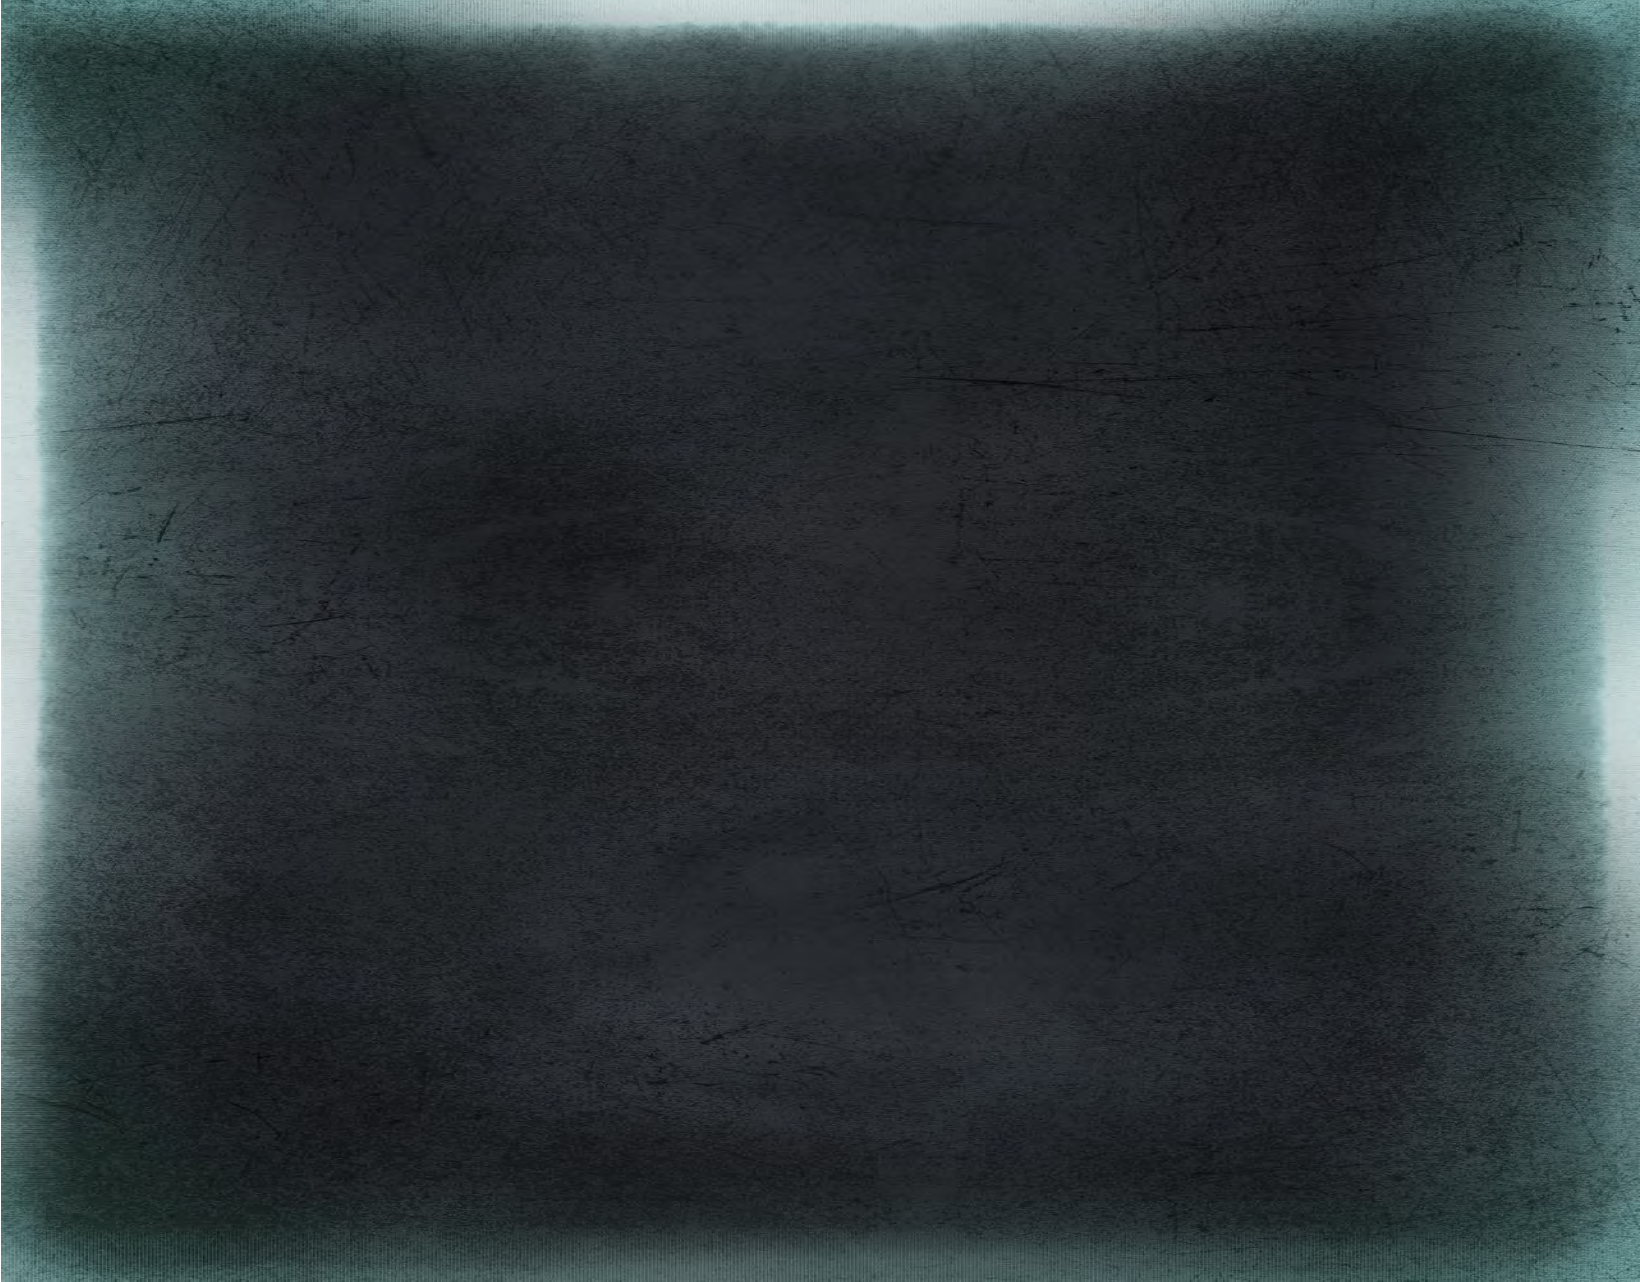
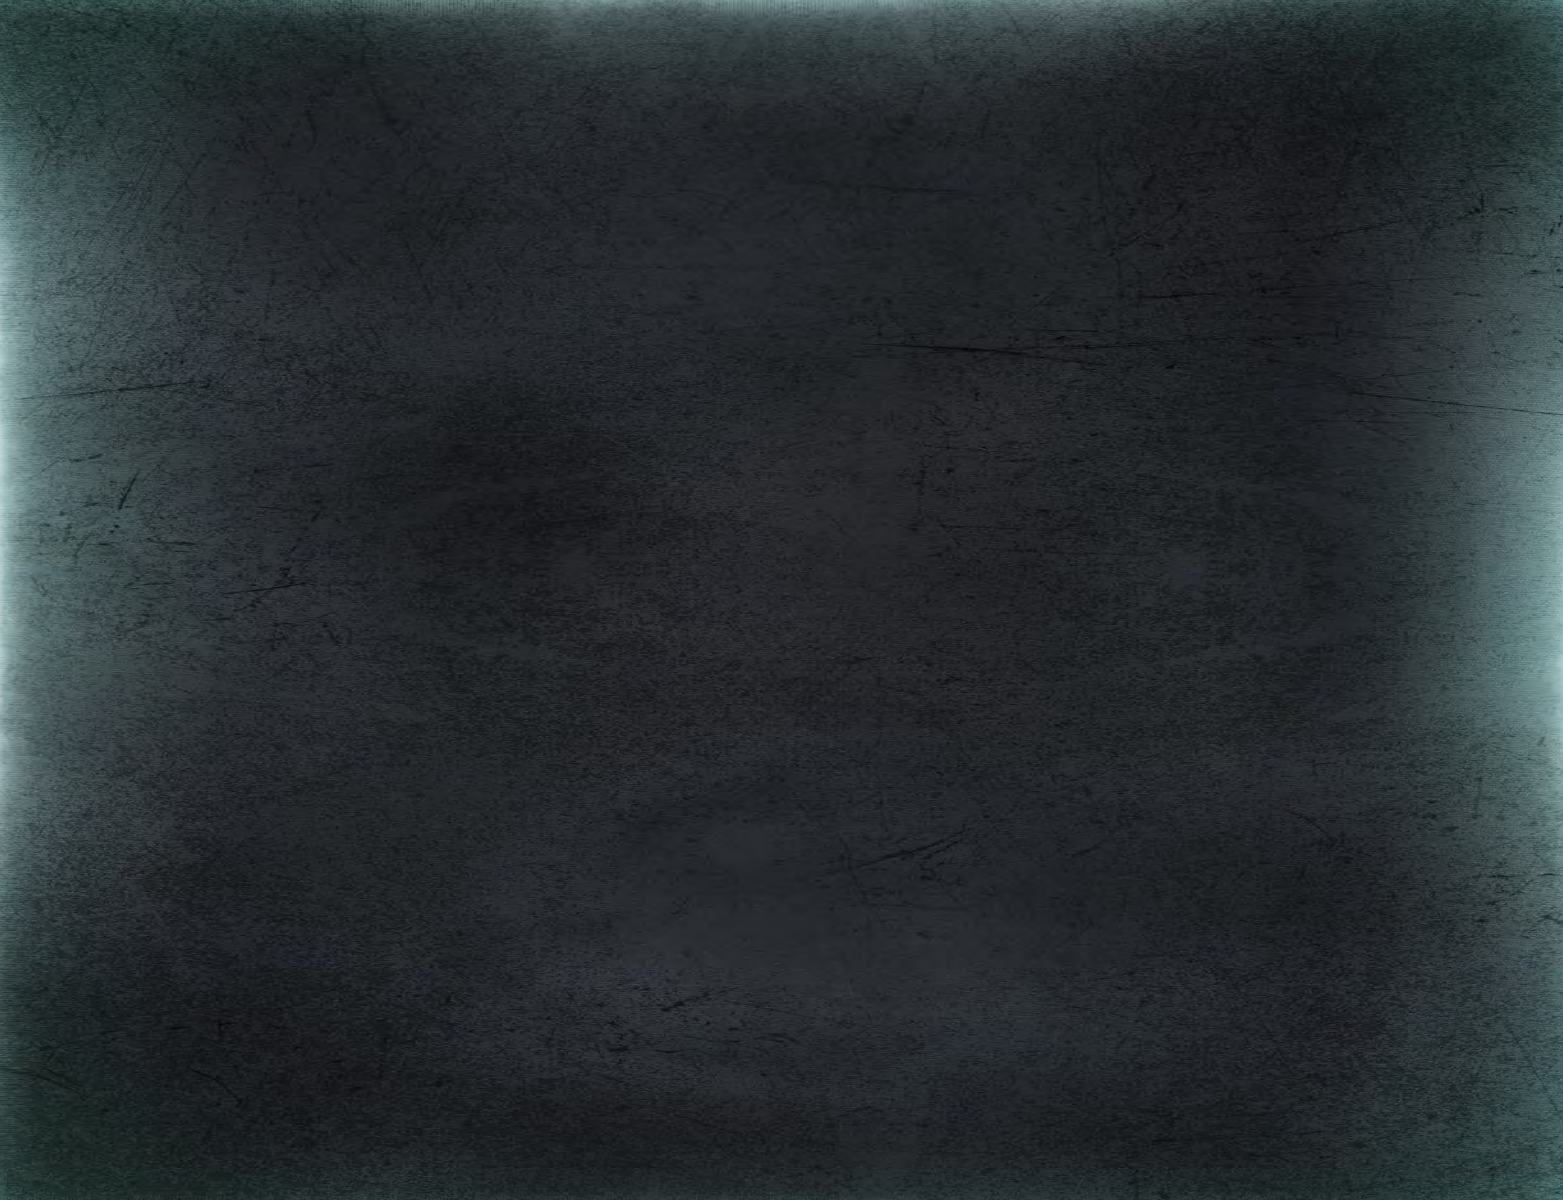
Updated image

Changed region(s): [[0.0, 0.0, 1.0, 1.0]]

diff --git a/bladerunner.html b/bladerunner.html
@@ -1,21 +1,21 @@
 
 <div class="border-1234 main-box background">
-    <div class="border-23 w100pc header light-box">
+    <div class="border-23 w100pc header light-box header">
         <span class="float-left w70pc light-box">Character sheet</span>
         <span class="float-right w30pc light-box">BLADE RUNNER</span>
     </div>
     
-    <div class="border-23 w40pc logo light-box">&nbsp;</div>
+    <div class="border-23 w40pc logo light-box character-info">&nbsp;</div>
     <div class="border-23 w40pc charinfo light-box">Charinfo</div>
     <div class="border-3 w20pc chartype light-box">Chartype</div>
 
     <div class="border-23 w20px">&nbsp;</div>
-    <div class="border-23 w100pc-40px dark-box">
-        <div class="border-2 w50pc">
+    <div class="border-23 w100pc-40px dark-box key-info">
+        <div class="border-2 w50pc key-memory">
             <span class="w100pc">Key Memory</span>
             <textarea class=""></textarea>
         </div>
-        <div class="w50pc">
+        <div class="w50pc key-relationship">
             <span class="w100pc">Key Relationship</span>
             <textarea class=""></textarea>            
         </div>
@@ -23,13 +23,13 @@
     <div class="border-3 w20px">&nbsp;</div>
 
     <div class="border-23 w20px">&nbsp;</div>
-    <div class="border-23 w100pc-40px dark-box">
-        <div class="border-2 w50pc">
+    <div class="border-23 w100pc-40px dark-box home-info">
+        <div class="border-2 w50pc home">
             <span class="w100pc">Home</span>            
             <textarea class=""></textarea>
-            <div class="border-1 w100pc dark-box">Years on the force</div>
+            <!-- <div class="border-1 w100pc dark-box force-years">Years on the force</div> -->
         </div>
-        <div class="w50pc">
+        <div class="w50pc appearance">
             <span class="w100pc">Appearance</span>            
             <textarea class=""></textarea>
         </div>
@@ -37,95 +37,95 @@
     <div class="border-3 w20px">&nbsp;</div>
     
     <div class="border-23 w20px">&nbsp;</div>
-    <div class="w100pc-40px dark-box">
-        <div class="border-23 w25pc dark-box">Years on the force</div>
-        <div class="border-23 w25pc">PROMOTION POINTS</div>
-        <div class="border-23 w25pc">HUMANITY POINTS</div>
-        <div class="border-23 w25pc">CHINYEN POINTS</div>
+    <div class="w100pc-40px dark-box points">
+        <div class="border-23 w25pc dark-box force-years">Years on the force</div>
+        <div class="border-23 w25pc promotion-points">PROMOTION POINTS</div>
+        <div class="border-23 w25pc humanity-points">HUMANITY POINTS</div>
+        <div class="border-23 w25pc chinyen-points">CHINYEN POINTS</div>
     </div>
     <div class="border-3 w20px">&nbsp;</div>
 
     <div class="border-23 w20px">&nbsp;</div>
-    <div class="border-2 w100pc-40px dark-box">
+    <div class="border-2 w100pc-40px dark-box attributes-skills-header">
         Attributes and skills
     </div>
     <div class="border-3 w20px">&nbsp;</div>
 
     <div class="border-23 w20px">&nbsp;</div>
-    <div class="w100pc-40px">
+    <div class="w100pc-40px attributes-skills">
         <div class="w25pc">
-            <div class="border-23 w70pc dark-box"></div>
-            <div class="border-23 w15pc dark-box">Rat.</div>
-            <div class="border-23 w15pc dark-box">Die</div>
-            <div class="border-23 w70pc dark-box yellow">STRENGTH</div>
-            <div class="border-23 w15pc lighter-box"></div>
-            <div class="border-23 w15pc lighter-box"></div>
-            <div class="border-23 w70pc dark-box yellow">Close Cmb</div>
-            <div class="border-23 w15pc lighter-box"></div>
-            <div class="border-23 w15pc lighter-box"></div>
-            <div class="border-23 w70pc dark-box yellow">Force</div>
-            <div class="border-23 w15pc lighter-box"></div>
-            <div class="border-23 w15pc lighter-box"></div>
-            <div class="border-23 w70pc dark-box yellow">Stamina</div>
-            <div class="border-23 w15pc lighter-box"></div>
-            <div class="border-23 w15pc lighter-box"></div>
+            <div class="border-23 w70pc dark-box table-header"></div>
+            <div class="border-23 w15pc dark-box table-header rating">Rat.</div>
+            <div class="border-23 w15pc dark-box table-header die">Die</div>
+            <div class="border-23 w70pc dark-box yellow attribute">STRENGTH</div>
+            <div class="border-23 w15pc lighter-box attribute-rank"></div>
+            <div class="border-23 w15pc lighter-box attribute-die"></div>
+            <div class="border-23 w70pc dark-box yellow skill">Close Cmb</div>
+            <div class="border-23 w15pc lighter-box skill-rank"></div>
+            <div class="border-23 w15pc lighter-box skill-die"></div>
+            <div class="border-23 w70pc dark-box yellow skill">Force</div>
+            <div class="border-23 w15pc lighter-box skill-rank"></div>
+            <div class="border-23 w15pc lighter-box skill-die"></div>
+            <div class="border-23 w70pc dark-box yellow skill">Stamina</div>
+            <div class="border-23 w15pc lighter-box skill-rank"></div>
+            <div class="border-23 w15pc lighter-box skill-die"></div>
+        </div>
+        <div class="w25pc">
+            <div class="border-23 w70pc dark-box table-header"></div>
+            <div class="border-23 w15pc dark-box table-header rating">Rat.</div>
+            <div class="border-23 w15pc dark-box table-header die">Die</div>
+            <div class="border-23 w70pc dark-box yellow attribute">AGILITY</div>
+            <div class="border-23 w15pc lighter-box attribute-rank"></div>
+            <div class="border-23 w15pc lighter-box attribute-die"></div>
+            <div class="border-23 w70pc dark-box yellow skill">Firearms</div>
+            <div class="border-23 w15pc lighter-box skill-rank"></div>
+            <div class="border-23 w15pc lighter-box skill-die"></div>
+            <div class="border-23 w70pc dark-box yellow skill">Mobility</div>
+            <div class="border-23 w15pc lighter-box skill-rank"></div>
+            <div class="border-23 w15pc lighter-box skill-die"></div>
+            <div class="border-23 w70pc dark-box yellow skill">Stealth</div>
+            <div class="border-23 w15pc lighter-box skill-rank"></div>
+            <div class="border-23 w15pc lighter-box skill-die"></div>
         </div>
         <div class="w25pc">
             <div class="border-23 w70pc dark-box"></div>
             <div class="border-23 w15pc dark-box">Rat.</div>
             <div class="border-23 w15pc dark-box">Die</div>
-            <div class="border-23 w70pc dark-box yellow">AGILITY</div>
-            <div class="border-23 w15pc lighter-box"></div>
-            <div class="border-23 w15pc lighter-box"></div>
-            <div class="border-23 w70pc dark-box yellow">Firearms</div>
-            <div class="border-23 w15pc lighter-box"></div>
-            <div class="border-23 w15pc lighter-box"></div>
-            <div class="border-23 w70pc dark-box yellow">Mobility</div>
-            <div class="border-23 w15pc lighter-box"></div>
-            <div class="border-23 w15pc lighter-box"></div>
-            <div class="border-23 w70pc dark-box yellow">Stealth</div>
-            <div class="border-23 w15pc lighter-box"></div>
-            <div class="border-23 w15pc lighter-box"></div>
+            <div class="border-23 w70pc dark-box yellow attribute">INTELLIGENCE</div>
+            <div class="border-23 w15pc lighter-box attribute-rank"></div>
+            <div class="border-23 w15pc lighter-box attribute-die"></div>
+            <div class="border-23 w70pc dark-box yellow skill">Medicial Aid</div>
+            <div class="border-23 w15pc lighter-box skill-rank"></div>
+            <div class="border-23 w15pc lighter-box skill-die"></div>
+            <div class="border-23 w70pc dark-box yellow skill">Observation</div>
+            <div class="border-23 w15pc lighter-box skill-rank"></div>
+            <div class="border-23 w15pc lighter-box skill-die"></div>
+            <div class="border-23 w70pc dark-box yellow skill">Tech</div>
+            <div class="border-23 w15pc lighter-box skill-rank"></div>
+            <div class="border-23 w15pc lighter-box skill-die"></div>
         </div>
         <div class="w25pc">
             <div class="border-23 w70pc dark-box"></div>
             <div class="border-23 w15pc dark-box">Rat.</div>
             <div class="border-23 w15pc dark-box">Die</div>
-            <div class="border-23 w70pc dark-box yellow">INTELLIGENCE</div>
-            <div class="border-23 w15pc lighter-box"></div>
-            <div class="border-23 w15pc lighter-box"></div>
-            <div class="border-23 w70pc dark-box yellow">Medicial Aid</div>
-            <div class="border-23 w15pc lighter-box"></div>
-            <div class="border-23 w15pc lighter-box"></div>
-            <div class="border-23 w70pc dark-box yellow">Observation</div>
-            <div class="border-23 w15pc lighter-box"></div>
-            <div class="border-23 w15pc lighter-box"></div>
-            <div class="border-23 w70pc dark-box yellow">Tech</div>
-            <div class="border-23 w15pc lighter-box"></div>
-            <div class="border-23 w15pc lighter-box"></div>
-        </div>
-        <div class="w25pc">
-            <div class="border-23 w70pc dark-box"></div>
-            <div class="border-23 w15pc dark-box">Rat.</div>
-            <div class="border-23 w15pc dark-box">Die</div>
-            <div class="border-23 w70pc dark-box yellow">EMPATHY</div>
-            <div class="border-23 w15pc lighter-box"></div>
-            <div class="border-23 w15pc lighter-box"></div>
-            <div class="border-23 w70pc dark-box yellow">Connections</div>
-            <div class="border-23 w15pc lighter-box"></div>
-            <div class="border-23 w15pc lighter-box"></div>
-            <div class="border-23 w70pc dark-box yellow">Insight</div>
-            <div class="border-23 w15pc lighter-box"></div>
-            <div class="border-23 w15pc lighter-box"></div>
-            <div class="border-23 w70pc dark-box yellow">Manipulation</div>
-            <div class="border-23 w15pc lighter-box"></div>
-            <div class="border-23 w15pc lighter-box"></div>
+            <div class="border-23 w70pc dark-box yellow attribute">EMPATHY</div>
+            <div class="border-23 w15pc lighter-box attribute-rank"></div>
+            <div class="border-23 w15pc lighter-box attribute-die"></div>
+            <div class="border-23 w70pc dark-box yellow skill">Connections</div>
+            <div class="border-23 w15pc lighter-box skill-rank"></div>
+            <div class="border-23 w15pc lighter-box skill-die"></div>
+            <div class="border-23 w70pc dark-box yellow skill">Insight</div>
+            <div class="border-23 w15pc lighter-box skill-rank"></div>
+            <div class="border-23 w15pc lighter-box skill-die"></div>
+            <div class="border-23 w70pc dark-box yellow skill">Manipulation</div>
+            <div class="border-23 w15pc lighter-box skill-rank"></div>
+            <div class="border-23 w15pc lighter-box skill-die"></div>
         </div>
     </div>
     <div class="border-3 w20px">&nbsp;</div>
 
     <div class="w20px">&nbsp;</div>
-    <div class="border-24 w100pc-40px dark-box">Weapons</div>
+    <div class="border-24 w100pc-40px dark-box weapon-header">Weapons</div>
     <div class="w20px">&nbsp;</div>
     <div class="w20px">&nbsp;</div>
     <div class="w100pc-40px">

diff --git a/bladerunner.css b/bladerunner.css
@@ -7,16 +7,18 @@ html {
 /* BOXES */
 
 .dark-box {
-    background-color: #1b1e21; 
+    -background-color: #1b1e21; 
 }
 .light-box {
-    background-color: #455758;
+    -background-color: #455758;
 }
 .lighter-box {
-    background-color: #cae2e4;
+    -background-color: #cae2e4;
 }
 .background {
-    background-color: #4e6e6e;
+    -background-color: #4e6e6e;
+    background-image: url('https://github.com/dwarfwing/Blade-Runner/blob/0ca434492b930420345d2b422d497879f65a3ff1/images/background.png?raw=true');
+    background-size: 100%;
 }
 
 .ui-dialog .charsheet div {
